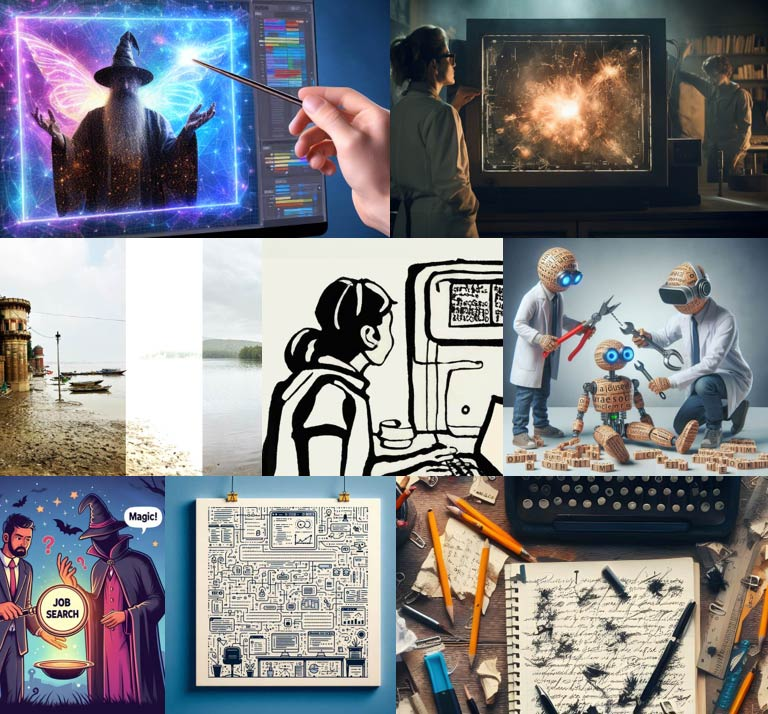
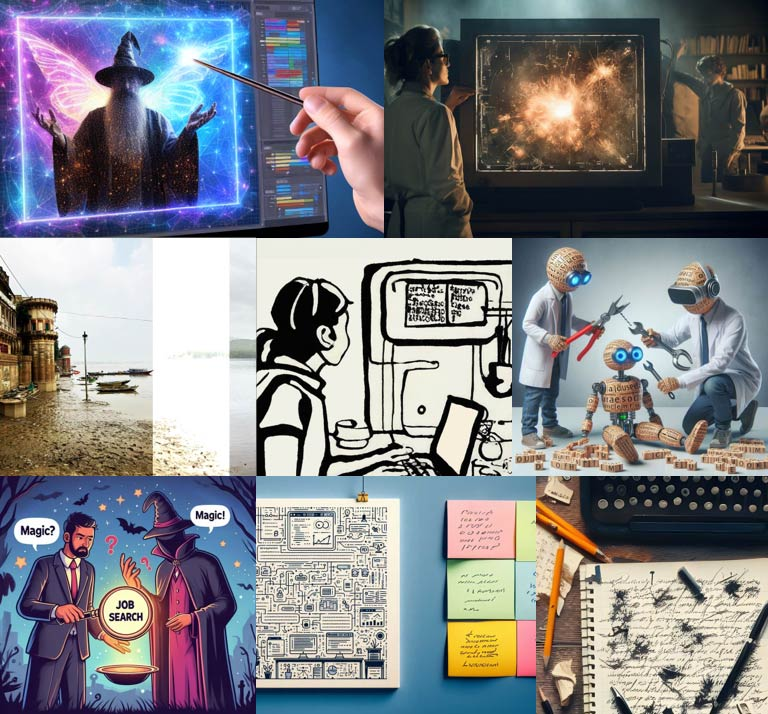
Update livestream heros
- Update text wrap
- Remove punctuation
- Update URL
- Update artwork

diff --git a/css/heros/hero-article.scss b/css/heros/hero-article.scss
@@ -49,9 +49,12 @@
         line-height: 1.15;
         letter-spacing: 0.1rem;
         color: $gym-white;
-        text-wrap: balance;
         margin-top: 0;
         margin-bottom: 0;
+
+        span {
+          display: inline-block;
+        }
       }
 
       // livestreams-related (guest / time)
@@ -60,7 +63,7 @@
         font-size: 1.4em;
         line-height: 1.45;
         color: $gym-gray-2;
-        text-wrap: pretty;
+        text-wrap: balance;
         margin-top: 1.6rem;
       }
 
